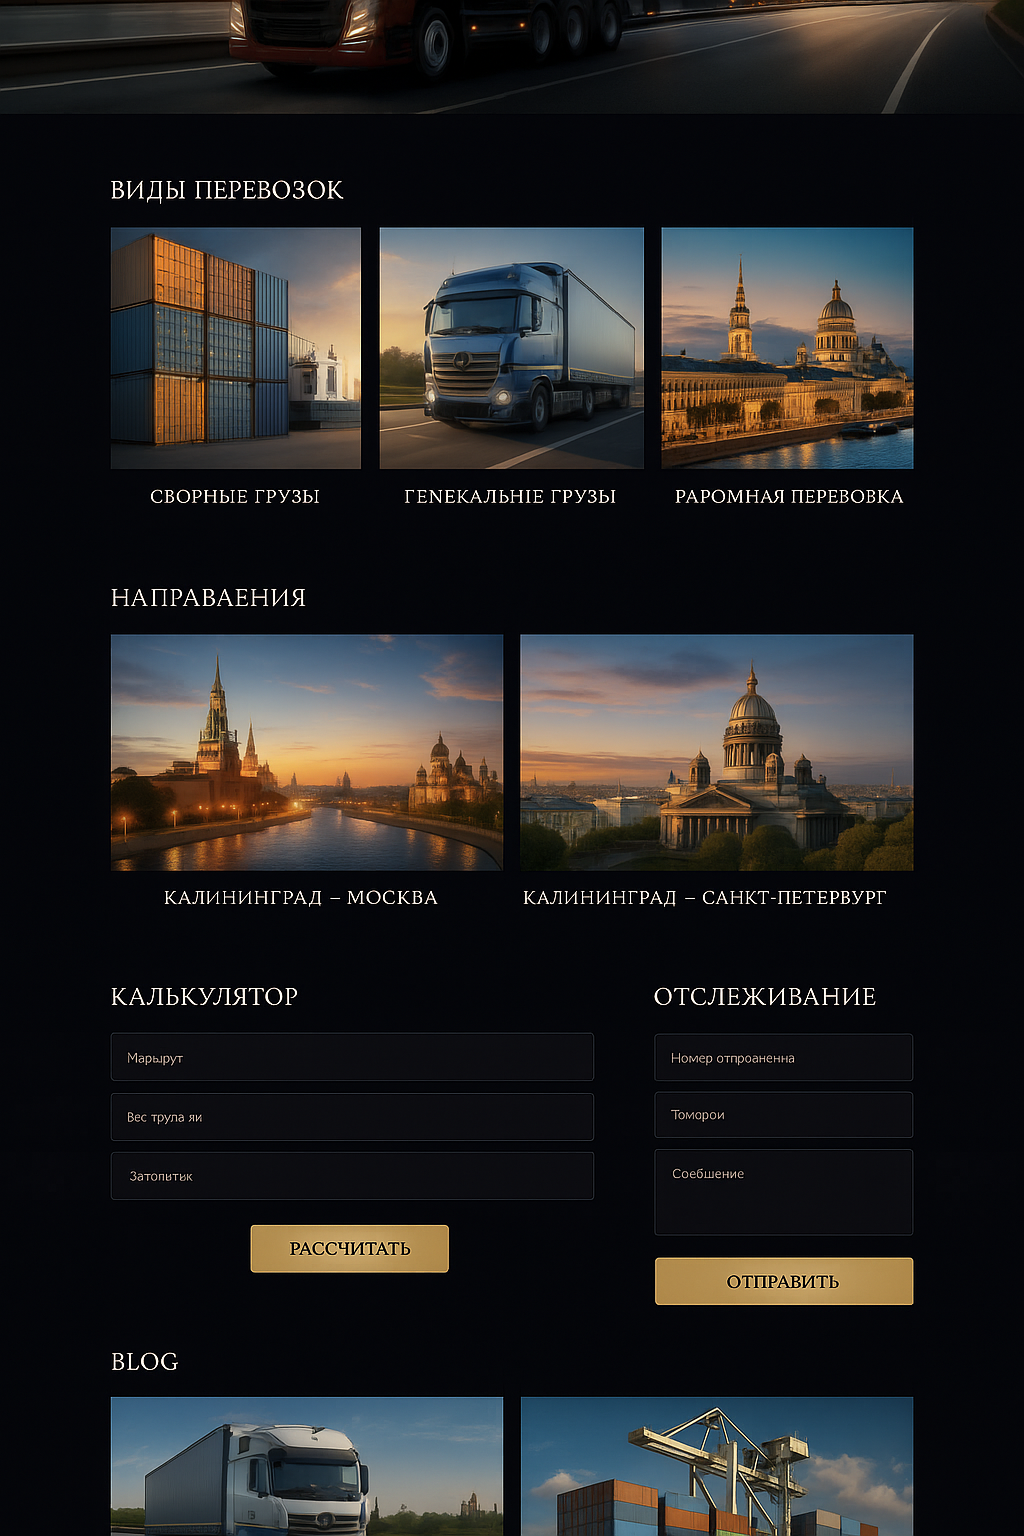
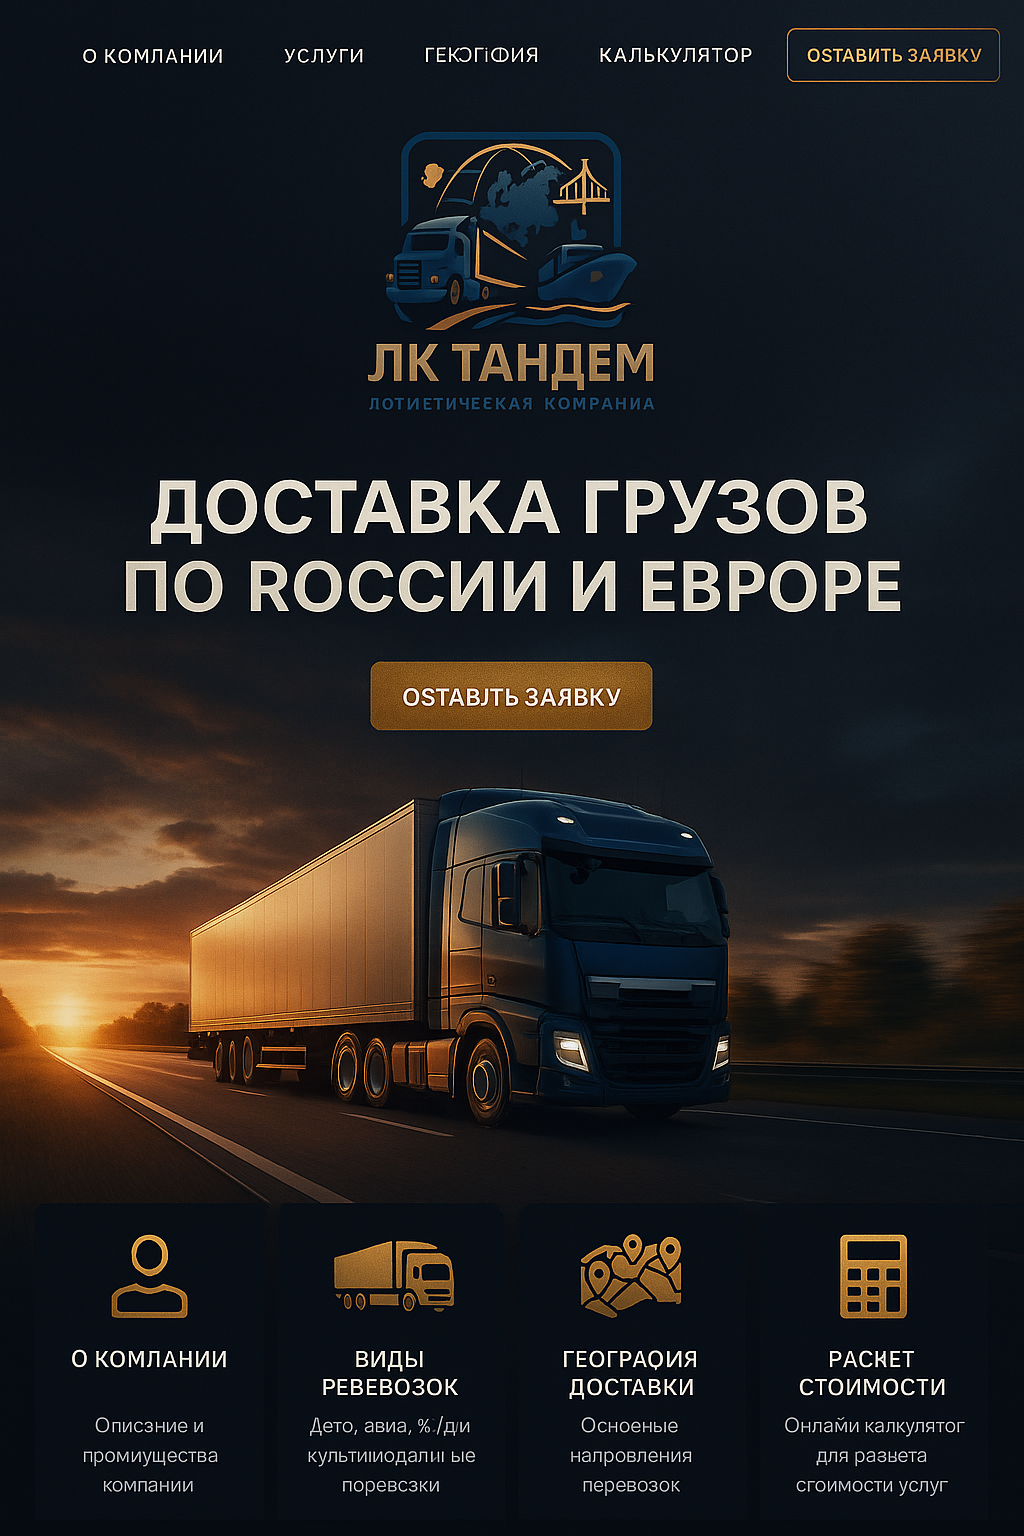
Add files via upload

diff --git a/index.html b/index.html
@@ -13,37 +13,46 @@
     .gold-text { color: #d4af37; }
   </style>
 </head>
-<body class="font-sans leading-relaxed tracking-wide flex flex-col">
+<body class="font-sans tracking-wide">
 
-<header class="bg-black p-4 flex items-center justify-between shadow-xl">
-  <img src="logo.png" alt="ЛК ТАНДЕМ" class="w-28">
-  <nav class="space-x-4 text-white text-lg">
-    <a href="#" class="hover:text-yellow-400">Главная</a>
-    <a href="#" class="hover:text-yellow-400">О нас</a>
-    <a href="#" class="hover:text-yellow-400">Услуги</a>
-    <a href="#" class="hover:text-yellow-400">География</a>
-    <a href="#" class="hover:text-yellow-400">Калькулятор</a>
-    <a href="#" class="hover:text-yellow-400">Контакты</a>
+<header class="bg-black p-4 flex items-center justify-between shadow-lg z-10 sticky top-0">
+  <img src="logo.png" alt="ЛК ТАНДЕМ" class="w-24 md:w-32">
+  <nav class="space-x-4 text-white text-sm md:text-base">
+    <a href="#" class="hover:text-yellow-400">О КОМПАНИИ</a>
+    <a href="#" class="hover:text-yellow-400">УСЛУГИ</a>
+    <a href="#" class="hover:text-yellow-400">ГЕОГРАФИЯ</a>
+    <a href="#" class="hover:text-yellow-400">РАССЧИТАТЬ СТОИМОСТЬ</a>
+    <a href="#" class="hover:text-yellow-400">ОСТАВИТЬ ЗАЯВКУ</a>
   </nav>
 </header>
 
 <section class="relative">
-  <img src="hero.jpg" class="w-full h-[400px] object-cover opacity-80" alt="hero">
+  <img src="hero.jpg" class="w-full h-[500px] object-cover opacity-80" alt="hero">
   <div class="absolute top-0 left-0 w-full h-full flex items-center justify-center">
-    <div class="text-center" data-aos="fade-up">
-      <h1 class="text-4xl md:text-6xl font-bold gold-text mb-4">ЛК ТАНДЕМ</h1>
-      <p class="text-lg md:text-2xl text-white">Премиальная доставка по России и Европе</p>
+    <div class="text-center px-4" data-aos="fade-down">
+      <h1 class="text-4xl md:text-6xl font-bold gold-text drop-shadow-lg mb-2">ЛОГИСТИЧЕСКАЯ КОМПАНИЯ</h1>
+      <h2 class="text-xl md:text-3xl text-white">ЛК ТАНДЕМ</h2>
+      <a href="#" class="inline-block mt-6 px-8 py-3 bg-yellow-400 text-black font-semibold rounded shadow hover:bg-yellow-300 transition">ОСТАВИТЬ ЗАЯВКУ</a>
     </div>
   </div>
 </section>
 
-<section class="max-w-4xl mx-auto my-16 px-4">
-  <div data-aos="fade-right">
-    <h2 class="text-3xl gold-text font-bold mb-4">О компании</h2>
-    <p class="text-white">
-      ЛК ТАНДЕМ — логистическая компания из Калининграда, предоставляющая услуги доставки сборных и генеральных грузов
-      по всей России и Европе. Мы обеспечиваем надежную транспортировку, контроль на каждом этапе, премиальный подход и индивидуальные решения для каждого клиента.
-    </p>
+<section class="py-16 bg-[#1e293b]">
+  <div class="max-w-6xl mx-auto px-4 text-center" data-aos="fade-up">
+    <div class="grid grid-cols-1 sm:grid-cols-2 md:grid-cols-3 gap-10 text-white">
+      <div>
+        <svg class="w-12 h-12 mx-auto mb-4" fill="none" stroke="currentColor" stroke-width="2" viewBox="0 0 24 24"><path d="M3 10h2l1 2h13l1-2h2m-5 10h-6m6-4H9m6-4H9"/></svg>
+        <h3 class="text-xl font-semibold mb-2">ВИДЫ ПЕРЕВОЗОК</h3>
+      </div>
+      <div>
+        <svg class="w-12 h-12 mx-auto mb-4" fill="none" stroke="currentColor" stroke-width="2" viewBox="0 0 24 24"><path d="M9 17v-5H4v6h5zm6-5v5h5v-6h-5z"/></svg>
+        <h3 class="text-xl font-semibold mb-2">ГЕОГРАФИЯ ДОСТАВКИ</h3>
+      </div>
+      <div>
+        <svg class="w-12 h-12 mx-auto mb-4" fill="none" stroke="currentColor" stroke-width="2" viewBox="0 0 24 24"><path d="M8 16h8M8 12h8M8 8h8"/></svg>
+        <h3 class="text-xl font-semibold mb-2">РАСЧЁТ СТОИМОСТИ</h3>
+      </div>
+    </div>
   </div>
 </section>
 
